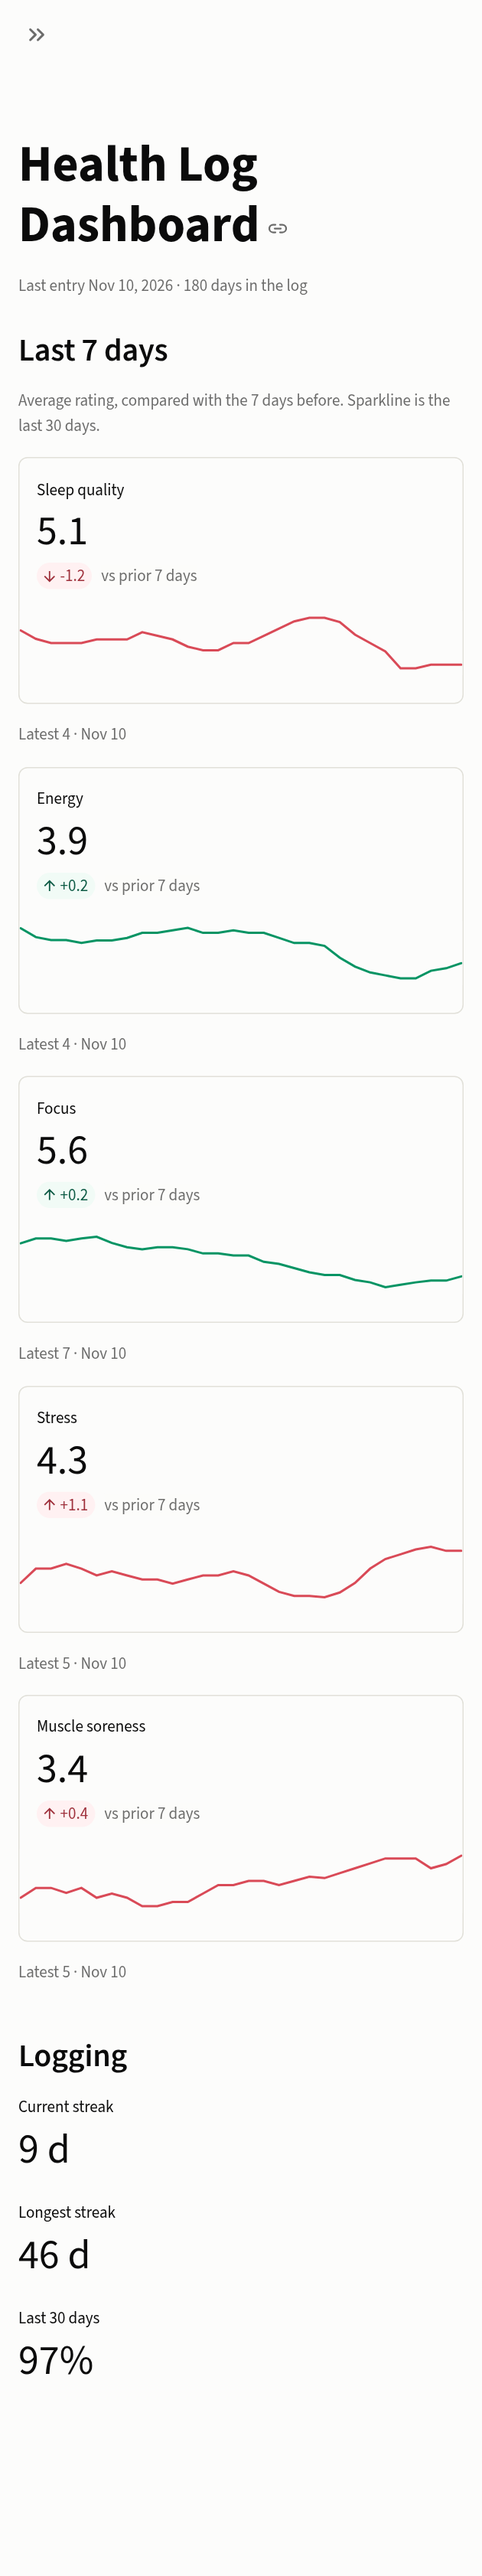
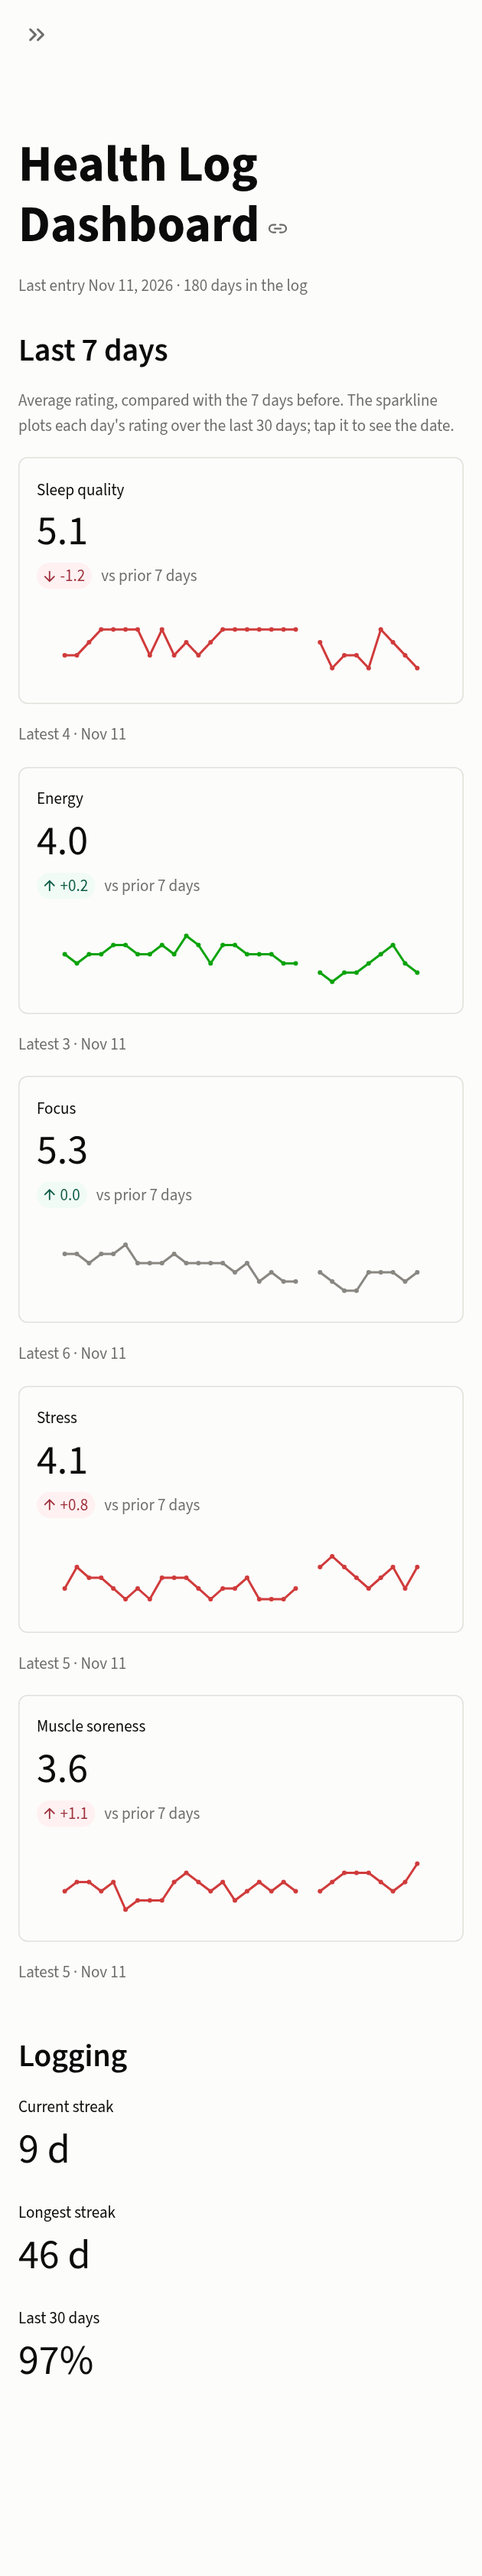
Daily-value sparklines with date hover; adjustable rolling window
Home tiles now plot each day's actual rating for the last 30 days in a small
Plotly chart (st.metric's built-in sparkline takes bare numbers, so it cannot
show dates). Line colour follows the 7-day change direction using the fixed
status palette. Trends gets a 1-30 day slider (default 7) replacing the fixed
7/30-day options, applied to both the single-metric and overlay charts.

diff --git a/src/health_log_dashboard/charts.py b/src/health_log_dashboard/charts.py
@@ -257,53 +257,106 @@ def trend_chart(
     color_index: int,
     *,
     days: int | None = None,
-    show_30d: bool = False,
+    window: int = 7,
     height: int = 300,
 ) -> go.Figure:
-    """One metric: faint daily dots, a 2px 7-day average, optionally a 30-day average."""
+    """One metric: faint daily dots plus a 2px rolling average over ``window`` days.
+
+    With ``window == 1`` the average would just repeat the dots, so the daily values are drawn
+    as a single line instead.
+    """
     color = theme.color(color_index)
-    raw = daily[metric.key]
-    avg7 = analytics.rolling_mean(raw, 7)
-    avg30 = analytics.rolling_mean(raw, 30)
-    raw, avg7, avg30 = (analytics.last_days(s, days) for s in (raw, avg7, avg30))
+    raw = analytics.last_days(daily[metric.key], days)
+    avg = analytics.last_days(analytics.rolling_mean(daily[metric.key], window), days)
 
     fig = go.Figure()
-    fig.add_trace(
-        go.Scatter(
-            x=raw.index,
-            y=raw,
-            mode="markers",
-            name="Daily",
-            marker=dict(size=6, color=color, opacity=0.4),
-            hovertemplate="%{y:.0f}<extra>Daily</extra>",
-        )
-    )
-    fig.add_trace(
-        go.Scatter(
-            x=avg7.index,
-            y=avg7,
-            mode="lines",
-            name="7-day avg",
-            line=dict(color=color, width=2, shape="spline", smoothing=0.5),
-            hovertemplate="%{y:.1f}<extra>7-day avg</extra>",
-        )
-    )
-    if show_30d:
+    if window > 1:
         fig.add_trace(
             go.Scatter(
-                x=avg30.index,
-                y=avg30,
-                mode="lines",
-                name="30-day avg",
-                line=dict(color=theme.text_secondary, width=2),
-                hovertemplate="%{y:.1f}<extra>30-day avg</extra>",
+                x=raw.index,
+                y=raw,
+                mode="markers",
+                name="Daily",
+                marker=dict(size=6, color=color, opacity=0.4),
+                hovertemplate="%{y:.0f}<extra>Daily</extra>",
             )
         )
-    if (dot := _end_dot(avg7, color, theme)) is not None:
+        fig.add_trace(
+            go.Scatter(
+                x=avg.index,
+                y=avg,
+                mode="lines",
+                name=f"{window}-day avg",
+                line=dict(color=color, width=2, shape="spline", smoothing=0.5),
+                hovertemplate="%{y:.1f}<extra>" + f"{window}-day avg" + "</extra>",
+            )
+        )
+    else:
+        fig.add_trace(
+            go.Scatter(
+                x=raw.index,
+                y=raw,
+                mode="lines+markers",
+                name="Daily",
+                line=dict(color=color, width=2),
+                marker=dict(size=5, color=color),
+                hovertemplate="%{y:.0f}<extra>Daily</extra>",
+            )
+        )
+    if (dot := _end_dot(avg, color, theme)) is not None:
         fig.add_trace(dot)
 
     fig.update_layout(**_layout(theme, height=height, legend=True), hovermode="x unified")
     _style_time_axes(fig, theme, (metric.min, metric.max))
+    return fig
+
+
+# Status palette (fixed, never themed): used for the tile sparklines, always beside the
+# delta pill's arrow and number so colour never carries the meaning alone.
+STATUS_GOOD = "#0ca30c"
+STATUS_BAD = "#d03b3b"
+
+
+def sparkline_chart(
+    series: pd.Series, theme: Theme, color: str, *, days: int = 30, height: int = 64
+) -> go.Figure:
+    """Tiny axis-free line of each day's actual rating; hover shows the date and the value.
+
+    The y range follows the data (there is no axis to mislead), missing days are gaps.
+    """
+    s = analytics.last_days(series, days)
+    valid = s.dropna()
+    lo, hi = (valid.min(), valid.max()) if len(valid) else (0.0, 1.0)
+    pad = max(1.0, (hi - lo) * 0.15)
+
+    fig = go.Figure(
+        go.Scatter(
+            x=s.index,
+            y=s,
+            mode="lines+markers",
+            line=dict(color=color, width=2),
+            marker=dict(size=4, color=color),
+            connectgaps=False,
+            hovertemplate="%{x|%a %b %-d}<br><b>%{y:.0f}</b><extra></extra>",
+        )
+    )
+    fig.update_layout(
+        height=height,
+        margin=dict(l=4, r=4, t=4, b=4),
+        paper_bgcolor="rgba(0,0,0,0)",
+        plot_bgcolor="rgba(0,0,0,0)",
+        font=dict(family=FONT, size=12, color=theme.text_secondary),
+        hoverlabel=dict(
+            bgcolor=theme.surface,
+            bordercolor=theme.baseline,
+            font=dict(family=FONT, size=12, color=theme.text),
+        ),
+        dragmode=False,
+        showlegend=False,
+        hovermode="x",
+    )
+    fig.update_xaxes(visible=False, fixedrange=True)
+    fig.update_yaxes(visible=False, fixedrange=True, range=[lo - pad, hi + pad])
     return fig
 
 
@@ -314,9 +367,10 @@ def overlay_chart(
     theme: Theme,
     *,
     days: int | None = None,
+    window: int = 7,
     height: int = 340,
 ) -> go.Figure:
-    """Several metrics' 7-day averages on one shared 0-10 axis.
+    """Several metrics' rolling averages (``window`` days) on one shared 0-10 axis.
 
     Colours come from each metric's position in ``all_metrics``, so they never change as
     the selection changes. Up to four series are also labelled at the line end (in text ink,
@@ -331,22 +385,22 @@ def overlay_chart(
     extent: list[pd.Timestamp] = []
     for m in selected:
         color = theme.color(order[m.key])
-        avg7 = analytics.last_days(analytics.rolling_mean(daily[m.key], 7), days)
-        if len(avg7):
-            extent += [avg7.index.min(), avg7.index.max()]
+        avg = analytics.last_days(analytics.rolling_mean(daily[m.key], window), days)
+        if len(avg):
+            extent += [avg.index.min(), avg.index.max()]
         fig.add_trace(
             go.Scatter(
-                x=avg7.index,
-                y=avg7,
+                x=avg.index,
+                y=avg,
                 mode="lines",
                 name=m.label,
                 line=dict(color=color, width=2, shape="spline", smoothing=0.5),
                 hovertemplate="%{y:.1f}<extra>" + m.label + "</extra>",
             )
         )
-        if (dot := _end_dot(avg7, color, theme)) is not None:
+        if (dot := _end_dot(avg, color, theme)) is not None:
             fig.add_trace(dot)
-            valid = avg7.dropna()
+            valid = avg.dropna()
             ends.append((float(valid.iloc[-1]), valid.index[-1], m.label))
 
     label_ends = len(selected) <= 4

diff --git a/app/Home.py b/app/Home.py
@@ -5,7 +5,7 @@ import math
 import streamlit as st
 
 import shared
-from health_log_dashboard import analytics
+from health_log_dashboard import analytics, charts
 
 ctx = shared.page_setup("Overview")
 daily = shared.load_daily(ctx)
@@ -15,7 +15,10 @@ last = daily.index.max()
 st.caption(f"Last entry {last:%b} {last.day}, {last.year} · {len(daily)} days in the log")
 
 st.subheader("Last 7 days")
-st.caption("Average rating, compared with the 7 days before. Sparkline is the last 30 days.")
+st.caption(
+    "Average rating, compared with the 7 days before. The sparkline plots each day's rating "
+    "over the last 30 days; tap it to see the date."
+)
 
 
 def tile_slots(n: int):
@@ -29,7 +32,6 @@ def tile_slots(n: int):
 for metric, slot in zip(ctx.config.metrics, tile_slots(len(ctx.config.metrics)), strict=True):
     series = daily[metric.key]
     cmp = analytics.period_comparison(series, 7)
-    spark = analytics.rolling_mean(series, 7).iloc[-30:].dropna()
     newest = analytics.latest(series)
 
     value = "–" if math.isnan(cmp.current) else f"{cmp.current:.1f}"
@@ -40,18 +42,28 @@ for metric, slot in zip(ctx.config.metrics, tile_slots(len(ctx.config.metrics)),
     else:
         delta = f"{cmp.delta:+.1f}"
 
-    with slot:
-        st.metric(
-            metric.label,
-            value,
-            delta=delta,
-            # Rating up is bad for most metrics, so flip the colour for those.
-            delta_color="normal" if metric.higher_is_better else "inverse",
-            delta_description="vs prior 7 days",
-            chart_data=spark if len(spark) > 1 else None,
-            chart_type="line",
-            border=True,
+    if math.isnan(cmp.delta) or abs(cmp.delta) < 0.05:
+        spark_color = ctx.theme.muted
+    else:
+        spark_color = (
+            charts.STATUS_GOOD if (cmp.delta > 0) == metric.higher_is_better else charts.STATUS_BAD
         )
+
+    with slot:
+        with st.container(border=True):
+            st.metric(
+                metric.label,
+                value,
+                delta=delta,
+                # Rating up is bad for most metrics, so flip the colour for those.
+                delta_color="normal" if metric.higher_is_better else "inverse",
+                delta_description="vs prior 7 days",
+            )
+            if series.notna().sum() > 1:
+                shared.show_chart(
+                    charts.sparkline_chart(series, ctx.theme, spark_color),
+                    key=f"spark_{metric.key}",
+                )
         if newest is not None:
             when, rating = newest
             st.caption(f"Latest {rating:.0f} · {when:%b} {when.day}")

diff --git a/tests/test_charts.py b/tests/test_charts.py
@@ -25,11 +25,22 @@ def trace_color(fig, name):
 class TestEveryChartBuilds:
     def test_trend(self, daily, config, theme):
         m = config.metrics[0]
-        fig = charts.trend_chart(daily, m, theme, 0, days=60, show_30d=True)
+        fig = charts.trend_chart(daily, m, theme, 0, days=60, window=30)
         names = [t.name for t in fig.data]
-        assert {"Daily", "7-day avg", "30-day avg"} <= set(names)
+        assert {"Daily", "30-day avg"} <= set(names)
         assert fig.layout.dragmode is False
         assert list(fig.layout.yaxis.range) == [m.min - 0.4, m.max + 0.4]
+
+    def test_sparkline(self, daily, config, theme):
+        series = daily["headache"]
+        fig = charts.sparkline_chart(series, theme, charts.STATUS_GOOD)
+        (trace,) = fig.data
+        # plots the actual daily values (not an average) for the last 30 days, with dates
+        expected = series.iloc[-30:]
+        assert list(trace.x) == list(expected.index)
+        np.testing.assert_array_equal(np.asarray(trace.y, dtype=float), expected.to_numpy())
+        assert "%{x|" in trace.hovertemplate and "%{y" in trace.hovertemplate
+        assert fig.layout.xaxis.visible is False and fig.layout.yaxis.visible is False
 
     def test_overlay(self, daily, config, theme):
         fig = charts.overlay_chart(daily, config.metrics[:3], config.metrics, theme)
@@ -127,3 +138,26 @@ def test_theme_for():
     assert charts.theme_for("dark") is charts.DARK
     assert charts.theme_for("light") is charts.LIGHT
     assert charts.theme_for(None) is charts.LIGHT
+
+
+def test_trend_window_sets_the_average_and_its_label(daily, config):
+    m = config.metrics[0]
+    fig = charts.trend_chart(daily, m, charts.LIGHT, 0, days=60, window=14)
+    avg = next(t for t in fig.data if t.name == "14-day avg")
+    expected = analytics.last_days(analytics.rolling_mean(daily[m.key], 14), 60)
+    np.testing.assert_allclose(np.asarray(avg.y, dtype=float), expected.to_numpy(), equal_nan=True)
+
+
+def test_trend_window_one_draws_the_daily_values_only(daily, config):
+    m = config.metrics[0]
+    fig = charts.trend_chart(daily, m, charts.LIGHT, 0, days=60, window=1)
+    assert [t.name for t in fig.data if t.name] == ["Daily"]
+
+
+def test_overlay_uses_the_window(daily, config):
+    key = config.metrics[0].key
+    fig = charts.overlay_chart(daily, config.metrics[:1], config.metrics, charts.LIGHT, window=21)
+    expected = analytics.rolling_mean(daily[key], 21)
+    np.testing.assert_allclose(
+        np.asarray(fig.data[0].y, dtype=float), expected.to_numpy(), equal_nan=True
+    )

diff --git a/app/pages/1_Trends.py b/app/pages/1_Trends.py
@@ -1,4 +1,4 @@
-"""Trends: each metric over time, with 7- and 30-day rolling averages."""
+"""Trends: each metric over time, with a rolling average over an adjustable window."""
 
 import streamlit as st
 
@@ -12,6 +12,14 @@ by_key = {m.key: m for m in metrics}
 
 st.title("Trends")
 days = shared.range_filter()
+window = st.slider(
+    "Rolling average window (days)",
+    min_value=1,
+    max_value=30,
+    value=7,
+    key="trend_window",
+    persist_state="session",
+)
 
 picked = st.multiselect(
     "Metrics",
@@ -25,7 +33,6 @@ if not picked:
 selected = [by_key[k] for k in picked]
 
 if len(selected) == 1:
-    show_30 = st.toggle("Show 30-day average", value=False)
     shared.show_chart(
         charts.trend_chart(
             daily,
@@ -33,7 +40,7 @@ if len(selected) == 1:
             ctx.theme,
             ctx.color_index[selected[0].key],
             days=days,
-            show_30d=show_30,
+            window=window,
         )
     )
 else:
@@ -45,14 +52,26 @@ else:
         key="trend_view",
     )
     if view == "Overlay":
-        st.caption("7-day averages on one shared 0–10 axis.")
-        shared.show_chart(charts.overlay_chart(daily, selected, metrics, ctx.theme, days=days))
+        st.caption(
+            f"{window}-day averages on one shared 0–10 axis."
+            if window > 1
+            else "Daily ratings on one shared 0–10 axis."
+        )
+        shared.show_chart(
+            charts.overlay_chart(daily, selected, metrics, ctx.theme, days=days, window=window)
+        )
     else:
         for m in selected:
             st.subheader(m.label, divider=False)
             shared.show_chart(
                 charts.trend_chart(
-                    daily, m, ctx.theme, ctx.color_index[m.key], days=days, height=240
+                    daily,
+                    m,
+                    ctx.theme,
+                    ctx.color_index[m.key],
+                    days=days,
+                    window=window,
+                    height=240,
                 ),
                 key=f"trend_{m.key}",
             )

diff --git a/README.md b/README.md
@@ -18,8 +18,8 @@ A private, self-hosted Streamlit dashboard for tracking, trending and visualizin
 The repo is public, but the author's data is not in it. With no credentials configured the app runs in **demo mode** on synthetic data, so everything here can be tried without access to any real log.
 
 ## What it shows
-- **Overview:** latest values and 7-day averages compared with the previous 7 days
-- **Trends:** each metric over time with 7- and 30-day rolling means
+- **Overview:** latest values and 7-day averages compared with the previous 7 days, with a 30-day sparkline of the daily ratings (tap for the date)
+- **Trends:** each metric over time with a rolling average whose window (1–30 days) you set with a slider
 - **Calendar:** GitHub-style heatmap per metric, plus logging streaks
 - **Patterns:** correlations between metrics and day-of-week profiles
 - **Data:** filterable table of the underlying log (live mode only, behind a password)
